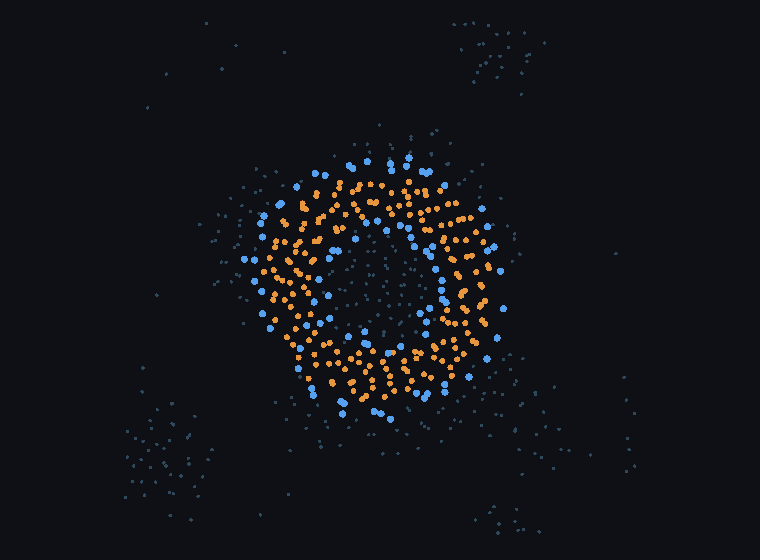
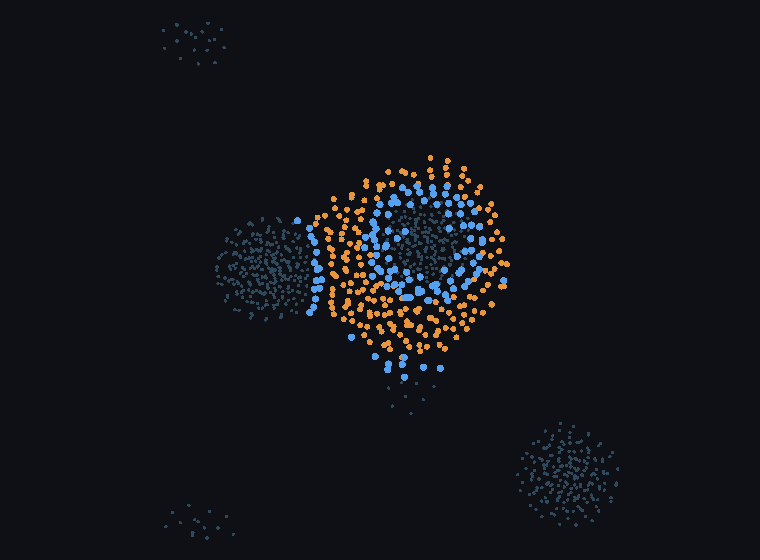
vivarium: the 3-D solvent has not been a liquid -- phi = 0.15 gives droplets in vacuum
The properly-sized 3-D vesicle run (N = 300, lumen 3.62 sigma by advance measurement, constant-volume
leaflet split, lumen filled, inertial integrator) produced a render in which the SOLVENT had condensed
into separate droplets with vacuum between them, and the lipid aggregate was a mixed blob with heads
and tails intermixed rather than a shell.

Measured on pure solvent, no lipid, L = 16, kT = 0.17, 12000 steps at dt = 8e-3:

      phi   n_water   largest frac   clusters   dens max/mean   min/mean   verdict
     0.15      1173          0.268          5            8.84       0.00   droplets / not homogeneous

The largest connected water cluster holds 27% of the water, there are five of them, and the coarse
density contrast is 8.84x with EMPTY cells. That is a droplet-plus-vapour phase, not a solvent.

The cause is thermodynamic and was predictable: water carries the strongest well in chi (1.00) against
kT = 0.17, about 5.9 kT, so below its critical density it phase-separates exactly as a Lennard-Jones
fluid does. phi = 0.15 was chosen because it was affordable, never because it lies in the liquid --
the same class of error as inheriting a box density calibrated against interpenetrating beads.

CONSEQUENCE. Every 3-D run in this project used phi = 0.10-0.15, so every 3-D observable is void,
including:
  * the "lumen density 10x bulk", where bulk was N_water/L^3 and therefore averaged over vacuum;
[…]

diff --git a/projects/vivarium/_solvent3d.py b/projects/vivarium/_solvent3d.py
@@ -1,0 +1,85 @@
+"""At what packing fraction is this model's water actually a LIQUID?
+
+A 3-D vesicle run at packing fraction 0.15 produced a render in which the solvent had condensed into
+separate droplets with vacuum between them, and the lipid aggregate was a mixed blob. That is not a
+solvated system, and every observable taken from it is meaningless -- including a "lumen density 10x
+bulk", where bulk was computed as N_water / L^3 and therefore averaged over the vacuum.
+
+The cause is thermodynamic, not numerical. Water carries the strongest well in `chi` (1.00) against
+kT = 0.17, i.e. about 5.9 kT, so below its critical density it phase-separates into droplets and
+vapour exactly as a Lennard-Jones fluid does. Choosing a packing fraction because it was affordable,
+without checking it lies in the liquid, is the same class of error as inheriting a box density
+calibrated against interpenetrating beads.
+
+WHAT IS MEASURED
+    Pure solvent, no lipid, at several packing fractions. For each:
+      * the largest connected water cluster as a fraction of all water -- a liquid at these densities
+        percolates, a droplet phase does not;
+      * the density contrast between the densest and sparsest regions of the box, on a coarse grid.
+        A homogeneous liquid is flat; a droplet phase is not.
+
+FALSIFICATION / ACCEPTANCE, stated first
+    A packing fraction is usable when the largest cluster holds essentially all the water AND the
+    coarse-grained density contrast is small. The lowest such value is what 3-D runs should use, since
+    solvent beads dominate the cost.
+"""
+
+import sys
+from collections import deque
+
+import numpy as np
+
+from field import Field, WATER
+from integrate import Inertial
+
+
+def largest_water_fraction(X, L, cut=1.5):
+    n = len(X)
+    d = X[:, None, :] - X[None, :, :]
+    d -= L * np.round(d / L)
+    adj = np.linalg.norm(d, axis=2) < cut
+    np.fill_diagonal(adj, False)
+    lab = -np.ones(n, int)
+    c = 0
+    for s in range(n):
+        if lab[s] >= 0:
+            continue
+        q = deque([s])
+        lab[s] = c
+        while q:
+            i = q.popleft()
+            for j in np.flatnonzero(adj[i]):
+                if lab[j] < 0:
+                    lab[j] = c
+                    q.append(j)
+        c += 1
+    return float(np.bincount(lab).max()) / n, c
+
+
+def density_contrast(X, L, nbin=4):
+    idx = np.floor((X + 0.5 * L) / (L / nbin)).astype(int) % nbin
+    flat = (idx[:, 0] * nbin + idx[:, 1]) * nbin + idx[:, 2]
+    counts = np.bincount(flat, minlength=nbin ** 3).astype(float)
+    return float(counts.max() / max(counts.mean(), 1e-9)), float(counts.min() / max(counts.mean(), 1e-9))
+
+
+if __name__ == "__main__":
+    steps = int(sys.argv[1]) if len(sys.argv) > 1 else 20000
+    L, kT = 16.0, 0.17
+    print(f"pure solvent, L={L}, kT={kT}, {steps} steps at dt=8e-3")
+    print(f"{'phi':>7}{'n_water':>9}{'largest frac':>14}{'clusters':>10}"
+          f"{'dens max/mean':>15}{'min/mean':>10}   verdict", flush=True)
+    for phi in (0.15, 0.25, 0.35, 0.45, 0.55):
+        n = int(round(phi * L ** 3 / (np.pi / 6.0)))
+        rng = np.random.default_rng(0)
+        X = rng.uniform(-L / 2, L / 2, size=(n, 3))
+        species = np.full(n, WATER, dtype=np.int64)
+        f = Field(species, np.zeros((0, 2), int), L)
+        ig = Inertial(f, kT, 8e-3, seed=2)
+        for _ in range(steps):
+            X = ig.step(X)
+        frac, nc = largest_water_fraction(X, L)
+        hi, lo = density_contrast(X, L)
+        ok = frac > 0.95 and hi < 1.6 and lo > 0.4
+        print(f"{phi:>7.2f}{n:>9}{frac:>14.3f}{nc:>10}{hi:>15.2f}{lo:>10.2f}   "
+              f"{'LIQUID' if ok else 'droplets / not homogeneous'}", flush=True)

diff --git a/projects/vivarium/_mixture.py b/projects/vivarium/_mixture.py
@@ -38,6 +38,7 @@ import numpy as np
 
 from _shot import disc, write_png
 from field import Field, HEAD, TAIL, WATER
+from integrate import Inertial
 
 W, H = 760, 560
 
@@ -331,9 +332,10 @@ if __name__ == "__main__":
 
     X, species, bonds, mols, wi, chains = build(n_short, n_long, n_water, L, d, plant=plant)
     f = Field(species, bonds, L)
-    gamma, dt = 1.0, 2e-4
-    rng = np.random.default_rng(1)
-    amp = np.sqrt(2.0 * kT * dt / gamma)
+    # INERTIAL at the validated dt = 8e-3: same energy, same equilibrium ensemble (verified against
+    # the overdamped run over 5 seeds per rung), 28x more reduced time per minute end to end.
+    dt = 8e-3
+    ig = Inertial(f, kT, dt, seed=1)
 
     print(f"MIXTURE {d}-D: {n_short} short (2 tails) + {n_long} long (4 tails) + {n_water} water, "
           f"L={L}, packing fraction {phi}, kT={kT}, start={plant}", flush=True)
@@ -343,8 +345,7 @@ if __name__ == "__main__":
           f"{'lumenW':>8}{'shortOUT':>10}{'shortIN':>9}   enrichment", flush=True)
     every = max(steps // 20, 1)
     for t in range(steps + 1):
-        X += (f.forces(X) / gamma) * dt + amp * rng.normal(size=X.shape)
-        X -= L * np.round(X / L)
+        X = ig.step(X)
         if t % every == 0:
             g = geometry(X, mols, wi, chains, L, d)
             enr = g["f_out"] - g["f_in"]

diff --git a/projects/vivarium/_sizing3d.py b/projects/vivarium/_sizing3d.py
@@ -36,6 +36,7 @@ import sys
 import numpy as np
 
 from field import Field, HEAD, TAIL, WATER
+from integrate import Inertial
 
 
 def plant_flat(n_side, n_tail, L, gap):
@@ -90,16 +91,15 @@ if __name__ == "__main__":
     X, species, bonds, mol = plant_flat(n_side, n_tail, L, gap)
     f = Field(species, bonds, L)
     a0, d0 = geometry(X, mol, n_side)
-    kT, gamma, dt = 0.35, 1.0, 2e-4
-    rng = np.random.default_rng(1)
-    amp = np.sqrt(2.0 * kT * dt / gamma)
+    kT, dt = 0.17, 8e-3
+    ig = Inertial(f, kT, dt, seed=1)
     print(f"planted flat 3-D bilayer: {len(mol)} lipids (1 head + {n_tail} tails), "
           f"vacuum, kT={kT}", flush=True)
     print(f"{'step':>8}{'E/lipid':>10}{'a (area/lipid)':>16}{'d (thickness)':>15}", flush=True)
     print(f"{0:>8}{f.energy(X) / len(mol):>10.3f}{a0:>16.3f}{d0:>15.3f}", flush=True)
     every = max(steps // 6, 1)
     for t in range(1, steps + 1):
-        X += (f.forces(X) / gamma) * dt + amp * rng.normal(size=X.shape)
+        X = ig.step(X)
         if t % every == 0:
             a, d = geometry(X, mol, n_side)
             print(f"{t:>8}{f.energy(X) / len(mol):>10.3f}{a:>16.3f}{d:>15.3f}", flush=True)
